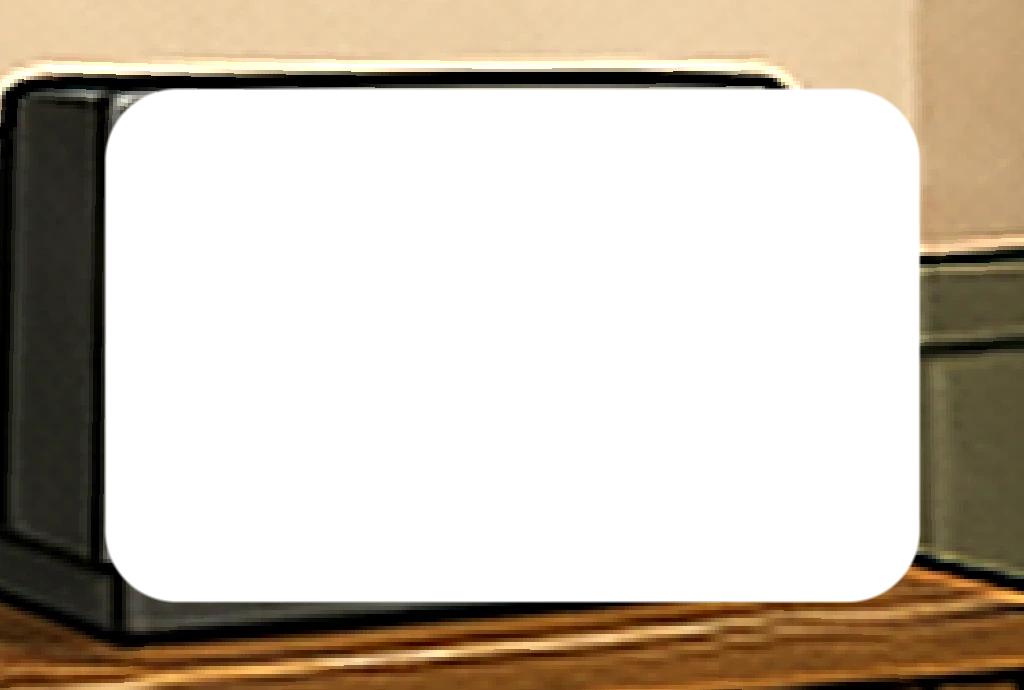
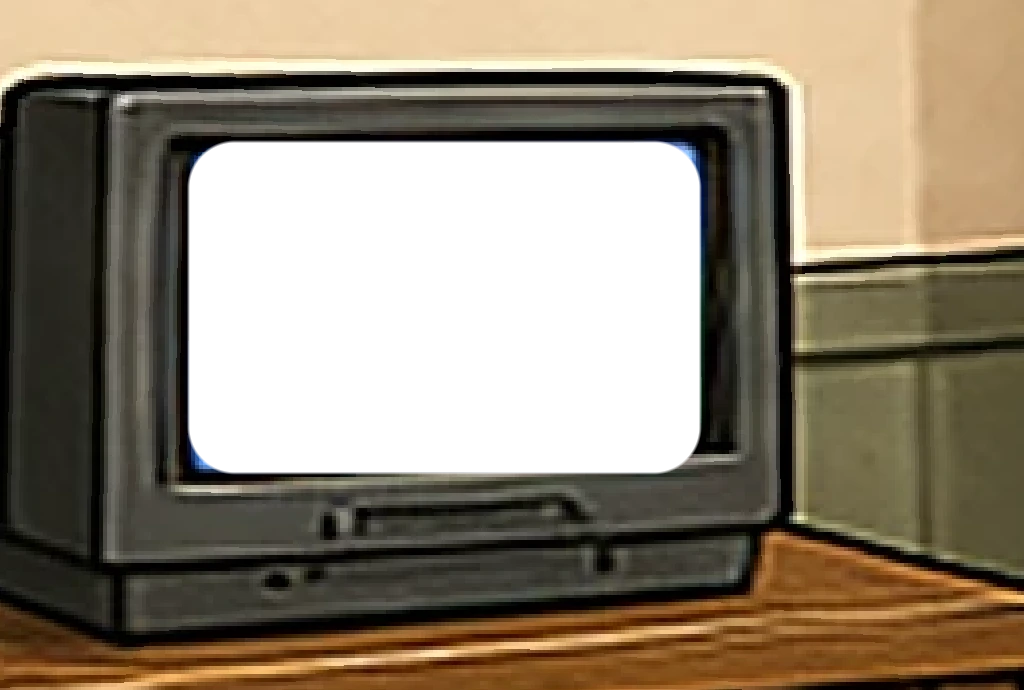
Fit CRT video to painted tube glass
Shrink the in-room video plane from the old 0.7×0.58 overshoot to the
measured glass (~0.44×0.375) with an XY bias onto the off-center tube,
and rebake the frame hole + backings to match.

diff --git a/app/components/CrtScreen.tsx b/app/components/CrtScreen.tsx
@@ -21,9 +21,19 @@ export const CRT_DEFAULT_SRC = '/videos/channel_b.mp4';
  * Alpha 0 until Videos is focused + armed (post-lookto).
  * Panel picks swap `src` in-place (stay in the room).
  *
- * Sizing: video fills the painted tube glass; frame sits around it.
- * (Previously screen was ~0.52× hit footprint — read as a postage stamp.)
+ * Sizing: video fills the painted tube glass; frame sits around the chassis.
+ * Hit plane `crt.w/h` is tube-set sized; glass is a smaller inset + XY bias
+ * (CRT sits off-center on the cabinet). Keep in lockstep with
+ * `crt_overlays()` in scripts/build-v9-pano.py.
  */
+/** Glass size as a fraction of sections.ts crt-tv w/h. */
+const SCREEN_W_FAC = 0.44;
+const SCREEN_H_FAC = 0.375;
+/** Local plane offset from hotspot center → painted glass center. */
+const SCREEN_OX = -1.27;
+const SCREEN_OY = 0.71;
+const FRAME_W_FAC = 0.88;
+const FRAME_H_FAC = 0.78;
 export default function CrtScreen({
   activeId,
   armed = false,
@@ -62,11 +72,10 @@ export default function CrtScreen({
     [],
   );
 
-  // Tube glass ≈ 70%×58% of the full-set hit footprint; frame hugs the chassis.
-  const screenW = crt.w * 0.7;
-  const screenH = crt.h * 0.58;
-  const frameW = crt.w * 0.88;
-  const frameH = crt.h * 0.78;
+  const screenW = crt.w * SCREEN_W_FAC;
+  const screenH = crt.h * SCREEN_H_FAC;
+  const frameW = crt.w * FRAME_W_FAC;
+  const frameH = crt.h * FRAME_H_FAC;
 
   useLayoutEffect(() => {
     backOffMap.colorSpace = THREE.SRGBColorSpace;
@@ -204,8 +213,14 @@ export default function CrtScreen({
 
   return (
     <group ref={group} position={[x, y, z]}>
-      {/* z: slightly in front of sphere wall; stack like BT zorder */}
-      <mesh ref={backOffMesh} position={[0, 0, 0.01]} renderOrder={2} raycast={() => null}>
+      {/* z: slightly in front of sphere wall; stack like BT zorder.
+          Screen stack is XY-biased onto the painted glass; frame stays on chassis. */}
+      <mesh
+        ref={backOffMesh}
+        position={[SCREEN_OX, SCREEN_OY, 0.01]}
+        renderOrder={2}
+        raycast={() => null}
+      >
         <planeGeometry args={[screenW * 1.04, screenH * 1.04]} />
         <meshBasicMaterial
           ref={backOffMat}
@@ -217,7 +232,12 @@ export default function CrtScreen({
           side={THREE.DoubleSide}
         />
       </mesh>
-      <mesh ref={backOnMesh} position={[0, 0, 0.015]} renderOrder={3} raycast={() => null}>
+      <mesh
+        ref={backOnMesh}
+        position={[SCREEN_OX, SCREEN_OY, 0.015]}
+        renderOrder={3}
+        raycast={() => null}
+      >
         <planeGeometry args={[screenW * 1.02, screenH * 1.02]} />
         <meshBasicMaterial
           ref={backOnMat}
@@ -229,7 +249,12 @@ export default function CrtScreen({
           side={THREE.DoubleSide}
         />
       </mesh>
-      <mesh ref={videoMesh} position={[0, 0, 0.03]} renderOrder={4} raycast={() => null}>
+      <mesh
+        ref={videoMesh}
+        position={[SCREEN_OX, SCREEN_OY, 0.03]}
+        renderOrder={4}
+        raycast={() => null}
+      >
         <planeGeometry args={[screenW, screenH]} />
         <meshBasicMaterial
           ref={videoMat}

diff --git a/app/data/sections.ts b/app/data/sections.ts
@@ -117,9 +117,9 @@ export const SECTIONS: Section[] = [
     kicker: 'Videos',
     intro: 'Tune the tube — channels stay in the room.',
     accent: '#7ad7ff',
-    // v9 pano: CRT on the low cabinet — u/v is the tube-glass center and
-    // w/h are tube-locked so the CrtScreen video/frame overlays sit on the
-    // painted set (set file x 138–252, tube x 162–240 / y 452–518 of 1536×1024).
+    // v9 pano: CRT on the low cabinet — u/v aims the set; w/h are the set
+    // footprint. CrtScreen insets the video to painted glass (~0.44×0.375 of
+    // w/h, XY-biased) — see SCREEN_* in CrtScreen.tsx / build-v9-pano.py.
     u: 0.8691,
     v: 0.4736,
     // Frame the set in the room — not watch-mode punch-in (was fov 22 / too close).

diff --git a/scripts/test-nav-camera.ts b/scripts/test-nav-camera.ts
@@ -126,6 +126,8 @@ const desktop = {
     crt.items.some((i) => i.videoSrc) && crt.items.some((i) => i.href && !i.videoSrc),
     'Videos guide should mix in-room channels and at least one outbound row',
   );
+  // CRT video plane must sit inside painted glass — not the old 0.7×0.58 overshoot.
+  assert.ok(crt.w === 21.7 && crt.h === 16.5, 'CRT hit plane stays v9 tube-set sized');
   const desk = resolveLookMfov(crt, desktop);
   const mob = resolveLookMfov(crt, phone);
   assert.equal(desk, 48, `desktop CRT should stay authored 48, got ${desk}`);

diff --git a/scripts/build-v9-pano.py b/scripts/build-v9-pano.py
@@ -47,8 +47,15 @@ PLANES = {
     "cash-register": (0.319, 0.44, 22.0, 16.0),
     "phone-booth": (0.237, 0.478, 17.0, 7.5),
 }
-# CRT hit plane (sections.ts w/h) — tube-locked for the video overlay stack.
+# CRT hit plane (sections.ts w/h) — tube-set footprint for the overlay stack.
 CRT_PLANE = (0.8691, 0.4736, 21.7, 16.5)
+# Painted glass inside that footprint — MUST mirror CrtScreen.tsx.
+CRT_SCREEN_W_FAC = 0.44
+CRT_SCREEN_H_FAC = 0.375
+CRT_SCREEN_OX = -1.27
+CRT_SCREEN_OY = 0.71
+CRT_FRAME_W_FAC = 0.88
+CRT_FRAME_H_FAC = 0.78
 
 # Ambient toy sprites — alpha-cut object billboards that wiggle on click.
 # MUST mirror the `toy` planes in app/components/AmbientHits.tsx.
@@ -268,10 +275,21 @@ def edge_mask(pano_arr: np.ndarray, sid: str) -> Image.Image:
     return Image.fromarray(out)
 
 
-def rounded_rect_alpha(tw: int, th: int, rel_w: float, rel_h: float, radius_frac: float, feather: float = 2.0) -> np.ndarray:
-    """Anti-aliased centered rounded-rect mask (1 inside, 0 outside)."""
+def rounded_rect_alpha(
+    tw: int,
+    th: int,
+    rel_w: float,
+    rel_h: float,
+    radius_frac: float,
+    feather: float = 2.0,
+    center: tuple[float, float] | None = None,
+) -> np.ndarray:
+    """Anti-aliased rounded-rect mask (1 inside, 0 outside).
+
+    `center` is (cx, cy) in texels; default is the texture midpoint.
+    """
     yy, xx = np.mgrid[0:th, 0:tw].astype(np.float32)
-    cx, cy = tw / 2, th / 2
+    cx, cy = center if center is not None else (tw / 2, th / 2)
     hw, hh = rel_w * tw / 2, rel_h * th / 2
     r = radius_frac * min(hw, hh) * 2
     dx = np.abs(xx - cx) - (hw - r)
@@ -347,23 +365,34 @@ def toy_sprite(
 def crt_overlays(pano_arr: np.ndarray) -> None:
     """Bezel frame (tube hole) + tube backings, in CrtScreen plane space."""
     u, v, w, h = CRT_PLANE
-    frame_w, frame_h = w * 0.88, h * 0.78
+    frame_w, frame_h = w * CRT_FRAME_W_FAC, h * CRT_FRAME_H_FAC
+    screen_w, screen_h = w * CRT_SCREEN_W_FAC, h * CRT_SCREEN_H_FAC
     tw = 1024
     th = max(2, round(tw * frame_h / frame_w))
 
     rgb = project_pano_to_plane(
         pano_arr, u, v, frame_w, frame_h, CRT_PLANE_RADIUS, tw, th
     )
-    # Tube glass = the 0.7w x 0.58h video plane inside the 0.88w x 0.78h frame.
-    hole = rounded_rect_alpha(tw, th, 0.7 / 0.88, 0.58 / 0.78, 0.14, feather=3.0)
+    # Glass hole is inset + XY-biased to match CrtScreen screen mesh.
+    hole_cx = (0.5 + CRT_SCREEN_OX / frame_w) * tw
+    hole_cy = (0.5 - CRT_SCREEN_OY / frame_h) * th
+    hole = rounded_rect_alpha(
+        tw,
+        th,
+        screen_w / frame_w,
+        screen_h / frame_h,
+        0.14,
+        feather=3.0,
+        center=(hole_cx, hole_cy),
+    )
     frame = np.dstack([rgb, ((1 - hole) * 255).astype(np.uint8)])
     Image.fromarray(frame).save(HOTSPOT_DIR / "crt_frame.webp", "WEBP", quality=92)
-    print(f"wrote crt_frame.webp {tw}x{th}")
+    print(f"wrote crt_frame.webp {tw}x{th} hole@({hole_cx:.0f},{hole_cy:.0f})")
 
     # Backings render on planes of screen*1.04 / screen*1.02 — draw the tube
     # rounded-rect at ~1/1.04 relative size so it matches the painted glass.
     bw = 1024
-    bh = max(2, round(bw * (h * 0.58) / (w * 0.7)))
+    bh = max(2, round(bw * screen_h / screen_w))
     for name, base, edge_gain in (
         ("crt_backing_off", (32, 36, 42), 0.55),
         ("crt_backing_playing", (5, 5, 6), 0.9),
